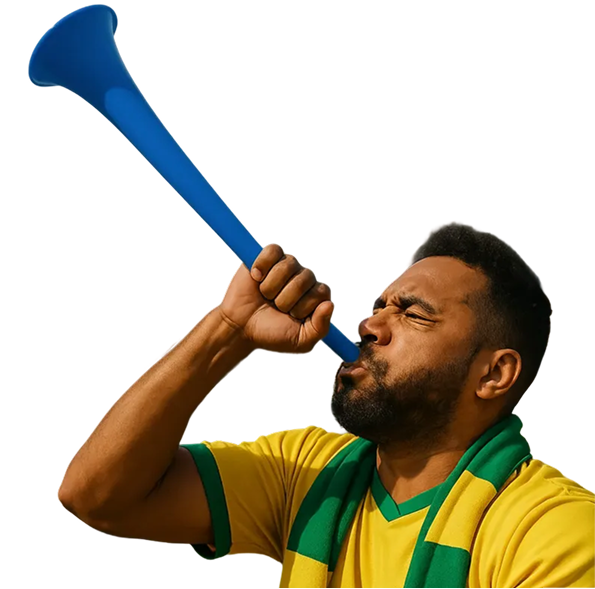
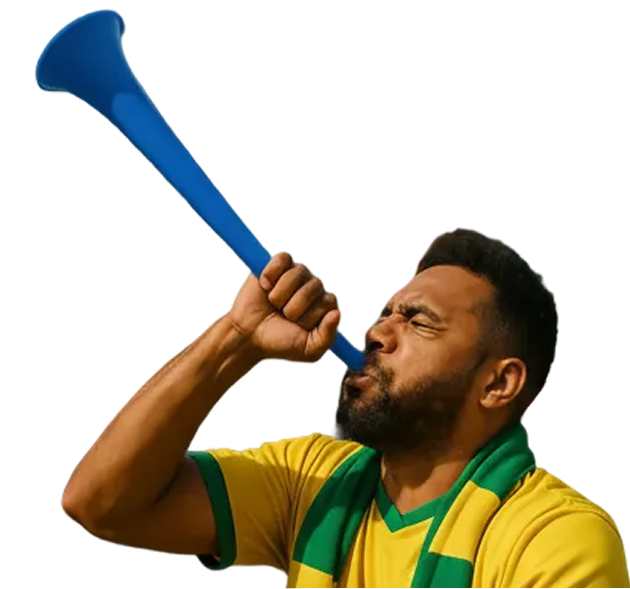
fix: update homepage layout for better responsiveness and visual hierarchy, including adjustments to image positioning and button styles

diff --git a/src/app/page.tsx b/src/app/page.tsx
@@ -48,44 +48,88 @@ export default function Home() {
           />
         </motion.div>
 
-        <div className="absolute inset-0 z-10 flex items-end justify-end">
-          <div className="relative h-full w-full md:h-full md:w-1/2">
-            <motion.div
-              className="relative h-full w-full"
-              initial={{ opacity: 0, x: 20 }}
-              animate={{ opacity: 1, x: 0 }}
-              transition={{ duration: 1.5, delay: 0.5 }}
-            >
-              <Image
-                src="/men-background-1.png"
-                alt="Torcedor com vuvuzela"
-                fill
-                className="object-contain object-bottom md:object-bottom-right"
-                priority
-              />
-            </motion.div>
+        <div className="relative mx-auto h-full w-full max-w-[1380px]">
+          <div className="absolute inset-0 z-10 flex items-end justify-end">
+            <div className="relative h-full w-full md:h-full md:w-1/2">
+              <motion.div
+                className="relative h-full w-full"
+                initial={{ opacity: 0, x: 20 }}
+                animate={{ opacity: 1, x: 0 }}
+                transition={{ duration: 1.5, delay: 0.5 }}
+              >
+                <Image
+                  src="/men-background-1.png"
+                  alt="Torcedor com vuvuzela"
+                  fill
+                  className="object-contain object-bottom-right"
+                  priority
+                />
+              </motion.div>
+            </div>
           </div>
-        </div>
 
-        <div className="relative z-10 flex h-full w-full flex-col items-start justify-center p-6">
-          <div className="flex w-fit flex-1 flex-col justify-start pt-8 lg:flex-none lg:justify-center lg:pt-0">
-            <motion.div
-              className="relative flex h-32 w-64 flex-col items-center lg:h-64 lg:w-[580px]"
-              initial={{ opacity: 0, x: -30 }}
-              animate={{ opacity: 1, x: 0 }}
-              transition={{ duration: 1.2, delay: 0.3 }}
-            >
-              <Image
-                src="/logotipo.png"
-                alt="Torcida pelo Planeta"
-                width={560}
-                height={315}
-                className="object-contain object-left"
-              />
-            </motion.div>
+          <div className="relative z-10 flex h-full w-full flex-col items-start justify-center p-6">
+            <div className="flex w-fit flex-1 flex-col justify-start pt-8 lg:flex-none lg:justify-center lg:pt-0">
+              <motion.div
+                className="relative flex h-32 w-64 flex-col items-center lg:h-64 lg:w-[580px]"
+                initial={{ opacity: 0, x: -30 }}
+                animate={{ opacity: 1, x: 0 }}
+                transition={{ duration: 1.2, delay: 0.3 }}
+              >
+                <Image
+                  src="/logotipo.png"
+                  alt="Torcida pelo Planeta"
+                  width={560}
+                  height={315}
+                  className="object-contain object-left"
+                />
+              </motion.div>
+
+              <motion.div
+                className="mt-2 mb-6 flex w-[200px] justify-center self-center lg:hidden"
+                initial={{ opacity: 0, y: 20 }}
+                animate={{ opacity: 1, y: 0 }}
+                transition={{ delay: 1.4, duration: 0.8 }}
+              >
+                <a
+                  href="https://taca.benfeitoria.com/"
+                  target="_blank"
+                  rel="noopener noreferrer"
+                  aria-label="Doe agora"
+                  className="bg-brand-yellow text-brand-green w-full max-w-[200px] rounded-full py-4 text-center text-xs font-black uppercase shadow-[0_4px_14px_0_rgba(0,0,0,0.39)] transition-colors hover:bg-[#ffeb3b]"
+                >
+                  Doe Agora!
+                </a>
+              </motion.div>
+            </div>
+
+            <div className="mb-8 flex flex-col gap-3 lg:mb-0 lg:w-[580px] lg:flex-col-reverse lg:items-end">
+              <motion.p
+                className="text-[10px] font-bold text-white uppercase lg:text-right lg:text-lg"
+                initial={{ opacity: 0 }}
+                animate={{ opacity: 1 }}
+                transition={{ delay: 1 }}
+              >
+                Ação Oficial: CBF / Taça dos Povos Indígenas / Paraquemdoar
+              </motion.p>
+              <motion.div
+                className="relative h-12 w-48 lg:h-20 lg:w-80"
+                initial={{ opacity: 0, y: 20 }}
+                animate={{ opacity: 1, y: 0 }}
+                transition={{ delay: 1.2, duration: 0.8 }}
+              >
+                <Image
+                  src="/partners-logo.png"
+                  alt="Parceiros"
+                  width={305}
+                  height={91}
+                  className="object-contain object-left lg:object-right"
+                />
+              </motion.div>
+            </div>
 
             <motion.div
-              className="mt-2 mb-6 flex w-[200px] justify-center self-center lg:hidden"
+              className="mt-4 hidden w-[580px] items-center justify-end gap-6 lg:flex"
               initial={{ opacity: 0, y: 20 }}
               animate={{ opacity: 1, y: 0 }}
               transition={{ delay: 1.4, duration: 0.8 }}
@@ -95,68 +139,26 @@ export default function Home() {
                 target="_blank"
                 rel="noopener noreferrer"
                 aria-label="Doe agora"
-                className="bg-brand-yellow text-brand-green w-full max-w-[200px] rounded-full py-4 text-center text-xs font-black uppercase shadow-[0_4px_14px_0_rgba(0,0,0,0.39)] transition-colors hover:bg-[#ffeb3b]"
+                className="bg-brand-yellow text-brand-green w-full max-w-[320px] rounded-full py-4 text-center text-xl font-black uppercase shadow-[0_4px_14px_0_rgba(0,0,0,0.39)] transition-colors hover:bg-[#ffeb3b] lg:w-auto lg:px-16"
               >
                 Doe Agora!
               </a>
+              <div className="flex flex-col items-center gap-2">
+                <Image
+                  src="/qr-code.svg"
+                  alt="QR Code para doação"
+                  width={90}
+                  height={90}
+                  className="rounded-md object-contain"
+                />
+                <p className="max-w-[100px] text-center text-xs leading-tight text-white">
+                  Aponte o celular
+                  <br />
+                  para o QRCODE
+                </p>
+              </div>
             </motion.div>
           </div>
-
-          <div className="mb-8 flex flex-col gap-3 lg:mb-0 lg:w-[580px] lg:flex-col-reverse lg:items-end">
-            <motion.p
-              className="text-[10px] font-bold text-white uppercase lg:text-right lg:text-lg"
-              initial={{ opacity: 0 }}
-              animate={{ opacity: 1 }}
-              transition={{ delay: 1 }}
-            >
-              Ação Oficial: CBF / Taça dos Povos Indígenas / Paraquemdoar
-            </motion.p>
-            <motion.div
-              className="relative h-12 w-48 lg:h-20 lg:w-80"
-              initial={{ opacity: 0, y: 20 }}
-              animate={{ opacity: 1, y: 0 }}
-              transition={{ delay: 1.2, duration: 0.8 }}
-            >
-              <Image
-                src="/partners-logo.png"
-                alt="Parceiros"
-                width={305}
-                height={91}
-                className="object-contain object-left lg:object-right"
-              />
-            </motion.div>
-          </div>
-
-          <motion.div
-            className="mt-4 hidden w-[580px] items-center justify-end gap-6 lg:flex"
-            initial={{ opacity: 0, y: 20 }}
-            animate={{ opacity: 1, y: 0 }}
-            transition={{ delay: 1.4, duration: 0.8 }}
-          >
-            <a
-              href="https://taca.benfeitoria.com/"
-              target="_blank"
-              rel="noopener noreferrer"
-              aria-label="Doe agora"
-              className="bg-brand-yellow text-brand-green w-full max-w-[320px] rounded-full py-4 text-center text-xl font-black uppercase shadow-[0_4px_14px_0_rgba(0,0,0,0.39)] transition-colors hover:bg-[#ffeb3b] lg:w-auto lg:px-16"
-            >
-              Doe Agora!
-            </a>
-            <div className="flex flex-col items-center gap-2">
-              <Image
-                src="/qr-code.svg"
-                alt="QR Code para doação"
-                width={90}
-                height={90}
-                className="rounded-md object-contain"
-              />
-              <p className="max-w-[100px] text-center text-xs leading-tight text-white">
-                Aponte o celular
-                <br />
-                para o QRCODE
-              </p>
-            </div>
-          </motion.div>
         </div>
 
         <div className="bg-brand-yellow absolute right-0 bottom-0 left-0 z-10 h-2 w-full lg:h-[25px]"></div>
